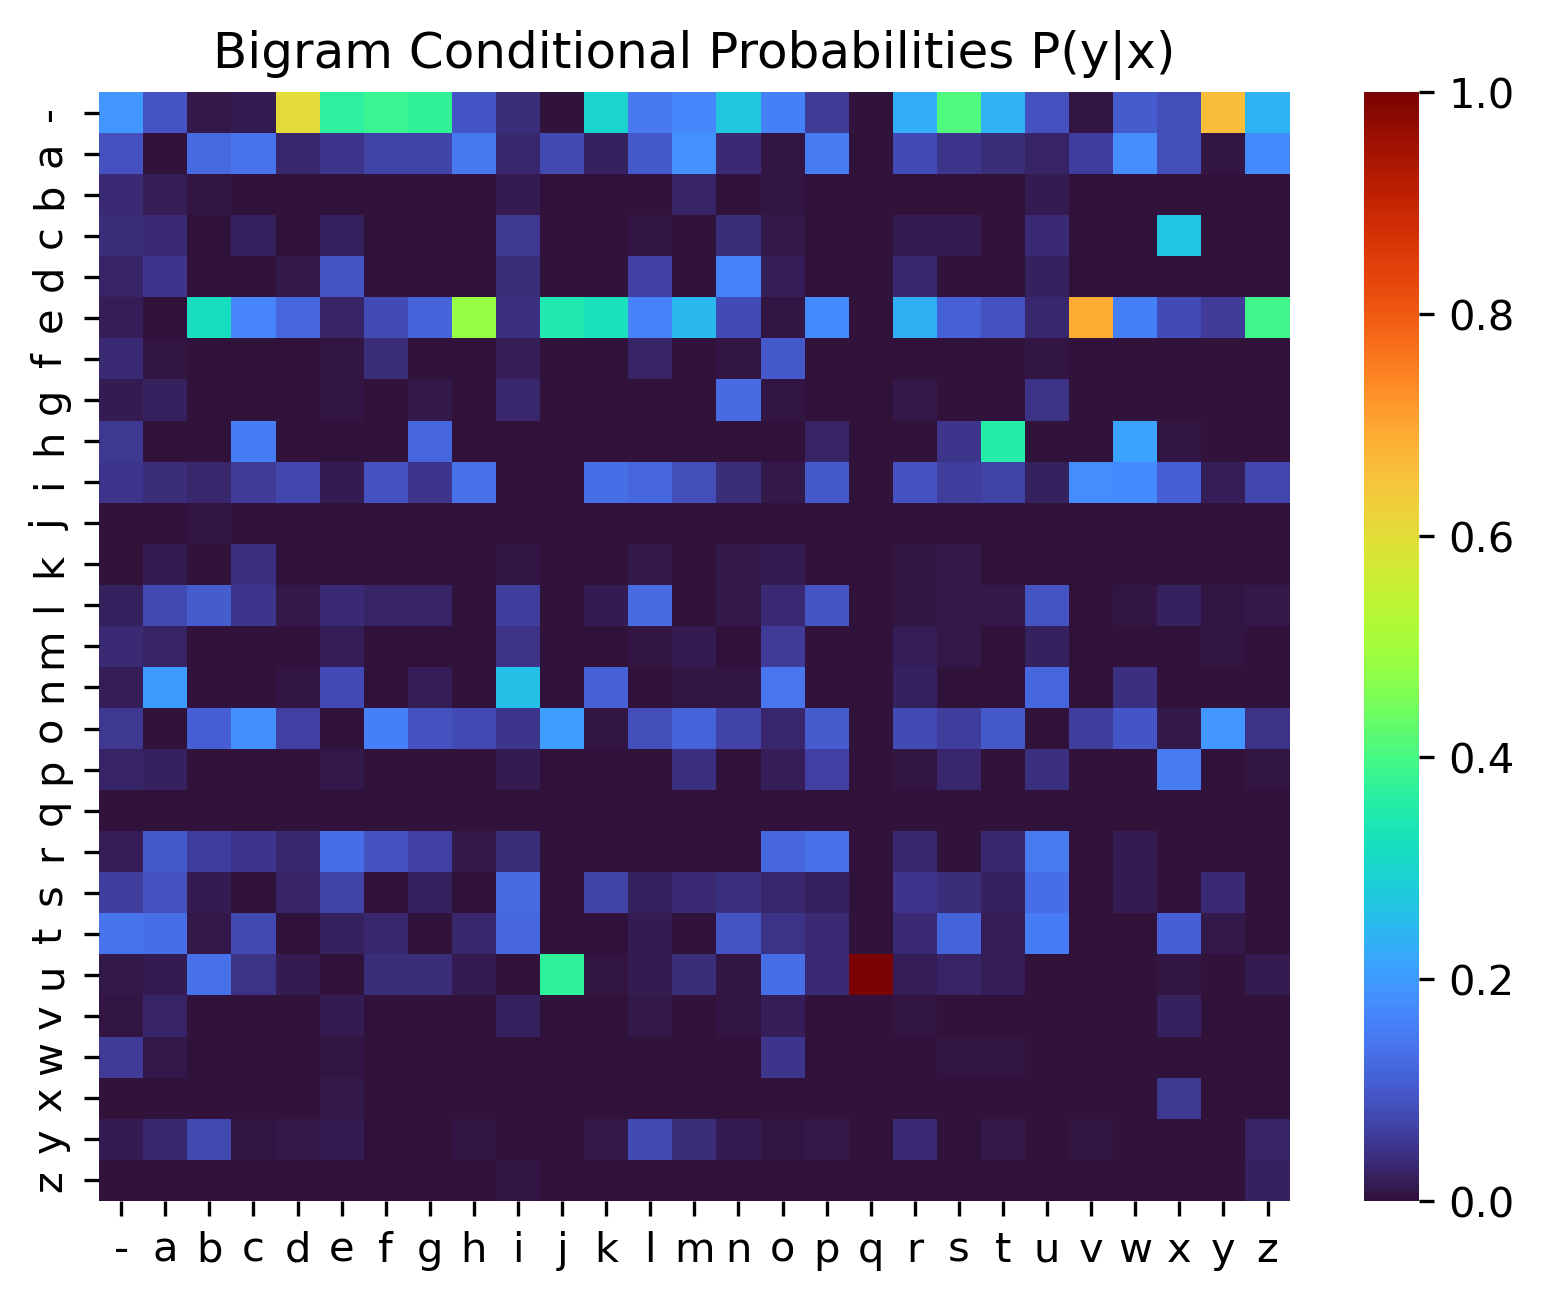
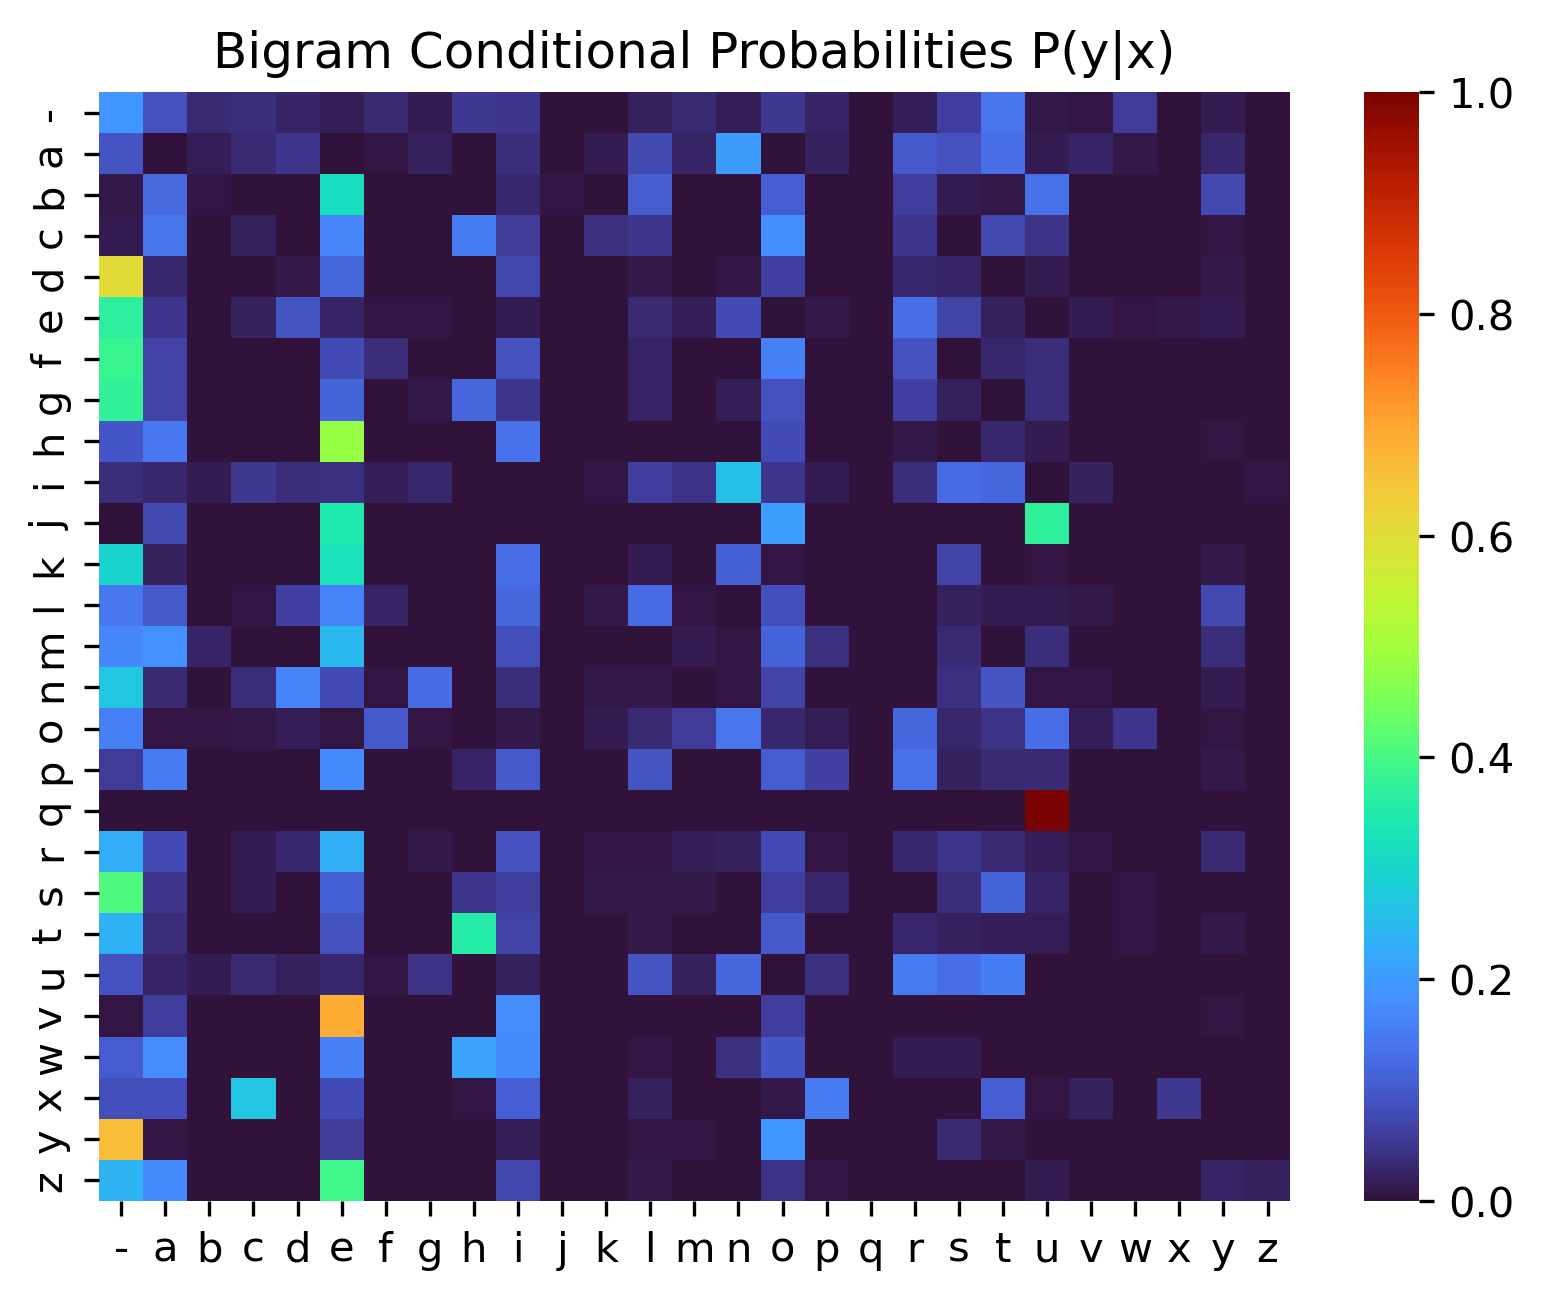
finish code hw

diff --git a/hw2/hw2.py b/hw2/hw2.py
@@ -11,40 +11,17 @@ import seaborn as sns
 from unidecode import unidecode
 from string import punctuation, digits, whitespace, ascii_lowercase
 
+def bayes(prob, decoded):
+    p_ab = prob['u'].prob('q')
+    p_b = decoded.count('u') / len(decoded)
+    p_ba = prob['q'].prob('u')
+    p_a = decoded.count('q') / len(decoded)
 
-def gen_bigram(filename):
-    myFile = open(filename, 'r', encoding='utf-8')
-    file = myFile.read()
-    decoded = unidecode(file.lower())
-    bigram = list(nltk.ngrams(decoded, 2))
+    print("Computing Bayes' Theorem")
+    print(round((p_ab * p_b), 3))
+    print(round((p_ba * p_a), 3))
 
-    others = punctuation + digits + whitespace
-    bigram_list = []
-    for n in bigram:
-        n = list(n)
-        if n[0] in others:
-            n[0] = '-'
-        if n[1] in others:
-            n[1] = '-'
-        bigram_list.append(tuple(n))
-
-    freq = nltk.ConditionalFreqDist(bigram_list) 
-
-    prob_table = np.zeros((27, 27))
-    for x in range(0, 27):
-        for y in range(0, 27):
-            prob_table[x][y] = freq[sorted(freq.conditions())[x]][sorted(freq.conditions())[y]] / freq.N()
-
-    df = pd.DataFrame(prob_table, index=sorted(freq.conditions()), columns=sorted(freq.conditions()))
-    fig = plt.figure()
-    sns.heatmap(df, cmap='turbo', xticklabels=True, yticklabels=True)
-    plt.title("Bigram Probabilities")
-    plt.savefig(filename[:-4] + '_bigram.png', dpi=300, bbox_inches='tight')
-    plt.close(fig)
-
-    return freq, filename
-
-def bigram_prob(freq, filename):
+def bigram_prob(freq, filename, decoded):
     prob = nltk.ConditionalProbDist(freq, nltk.MLEProbDist) 
 
     prob_table = np.zeros((27, 27))
@@ -71,11 +48,46 @@ def bigram_prob(freq, filename):
     plt.savefig(filename[:-4] + '_condprob_yx.png', dpi=300, bbox_inches='tight')
     plt.close(fig)
 
+    bayes(prob, decoded)
+
+def gen_bigram(filename):
+    myFile = open(filename, 'r', encoding='utf-8')
+    file = myFile.read()
+    decoded = unidecode(file.lower())
+    bigram = list(nltk.ngrams(decoded, 2))
+
+    others = punctuation + digits + whitespace
+    bigram_list = []
+    i = 0
+    for n in bigram:
+        n = list(n)
+        if n[0] in others:
+            n[0] = '-'
+        if n[1] in others:
+            n[1] = '-'
+        bigram_list.append(tuple(n))
+        i += 1
+
+    freq = nltk.ConditionalFreqDist(bigram_list) 
+
+    prob_table = np.zeros((27, 27))
+    for x in range(0, 27):
+        for y in range(0, 27):
+            prob_table[x][y] = freq[sorted(freq.conditions())[x]][sorted(freq.conditions())[y]] / freq.N()
+
+    df = pd.DataFrame(prob_table, index=sorted(freq.conditions()), columns=sorted(freq.conditions()))
+    fig = plt.figure()
+    sns.heatmap(df, cmap='turbo', xticklabels=True, yticklabels=True)
+    plt.title("Bigram Probabilities")
+    plt.savefig(filename[:-4] + '_bigram.png', dpi=300, bbox_inches='tight')
+    plt.close(fig)
+
+    bigram_prob(freq, filename, decoded)
+
+
 if __name__ == "__main__":
     print('Processing: Noli Me Tangere (English ver.)')
-    freq, filename = gen_bigram('noli_eng.txt')
-    bigram_prob(freq, filename)
+    gen_bigram('noli_eng.txt')
 
-    #print('Processing: Noli Me Tangere (Tagalog ver.)')
-    #freq, filename = gen_bigram('noli_tag.txt')
-    #bigram_prob(freq, filename)
+    print('Processing: Noli Me Tangere (Tagalog ver.)')
+    gen_bigram('noli_tag.txt')
